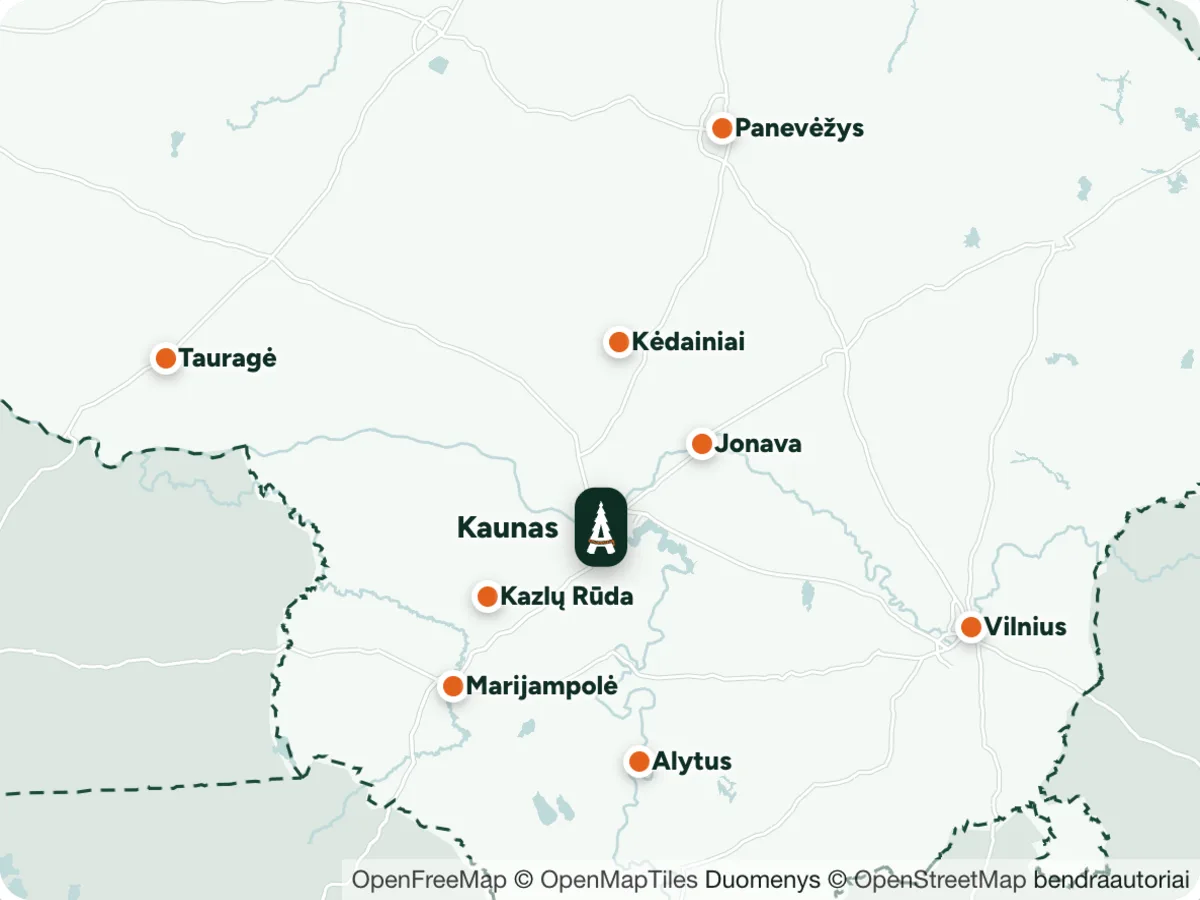
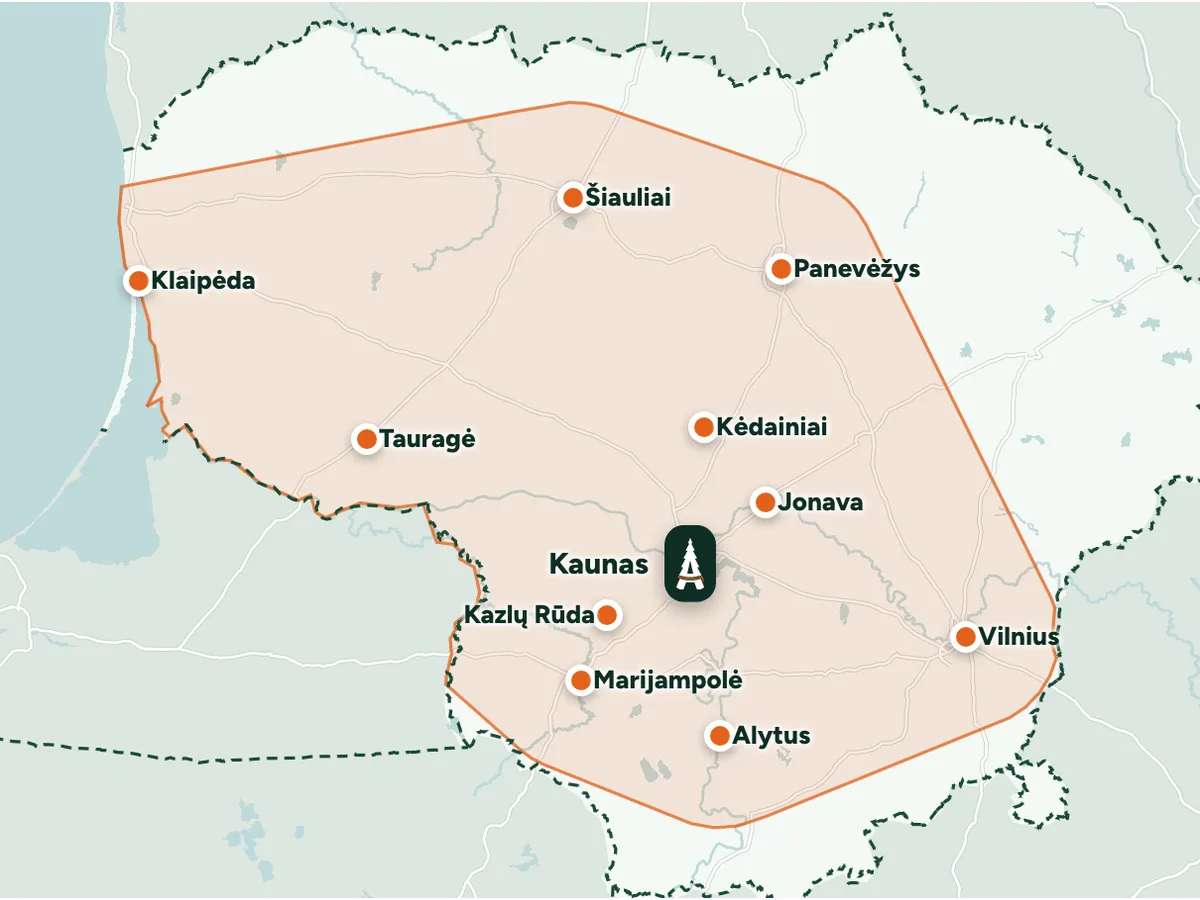
feat(v5): service area back on the map, Klaipėda and Šiauliai as served towns

diff --git a/src/scripts/area-map.js b/src/scripts/area-map.js
@@ -34,21 +34,24 @@ export async function mount(box) {
   let map;
   try {
     map = new maplibregl.Map({
-      container: host, style: style(), bounds: [[21.9, 54.1], [25.9, 56.0]], fitBoundsOptions: { padding: 0 },
+      container: host, style: style(), bounds: [[20.75, 53.95], [26.15, 56.45]], fitBoundsOptions: { padding: 0 },
       attributionControl: false, cooperativeGestures: true, dragRotate: false, pitchWithRotate: false, maxZoom: 11, minZoom: 5, renderWorldCopies: false,
       locale: { 'CooperativeGesturesHandler.WindowsHelpText': 'Laikykite Ctrl ir sukite pelės ratuką, kad keistumėte mastelį', 'CooperativeGesturesHandler.MacHelpText': 'Laikykite Cmd ir sukite pelės ratuką, kad keistumėte mastelį', 'CooperativeGesturesHandler.MobileHelpText': 'Žemėlapį stumkite dviem pirštais', 'NavigationControl.ZoomIn': 'Priartinti', 'NavigationControl.ZoomOut': 'Atitolinti' },
     });
   } catch (e) { box.classList.add('map--static'); return; }
   map.addControl(new maplibregl.NavigationControl({ showCompass: false }), 'top-right');
   map.on('load', async () => {
-    const lt = await fetch(data.lt).then((r) => r.json());
+    const [lt, zone] = await Promise.all([fetch(data.lt).then((r) => r.json()), fetch(data.zone).then((r) => r.json())]);
     map.addSource('lt', { type: 'geojson', data: lt });
+    map.addSource('zone', { type: 'geojson', data: zone });
     map.addLayer({ id: 'lt-fill', type: 'fill', source: 'lt', paint: { 'fill-color': C.land } }, 'wood');
+    map.addLayer({ id: 'zone-fill', type: 'fill', source: 'zone', paint: { 'fill-color': C.orange, 'fill-opacity': .13 } }, 'border');
+    map.addLayer({ id: 'zone-line', type: 'line', source: 'zone', paint: { 'line-color': C.orange, 'line-width': 1.6, 'line-opacity': .75 } }, 'border');
     const reduce = window.matchMedia('(prefers-reduced-motion: reduce)').matches;
     let i = 0;
     for (const t of data.towns) {
       const base = t.base;
-      const m = el('a', `mpin${base ? ' mpin--base' : ''}`, `<span class="mpin__in">${base ? `<img src="${data.mark}" alt="" width="20" height="34">` : ''}<span class="mpin__dot"></span><span class="mpin__l">${t.name}</span></span>`);
+      const m = el('a', `mpin${base ? ' mpin--base' : ''}${t.left ? ' mpin--left' : ''}`, `<span class="mpin__in">${base ? `<img src="${data.mark}" alt="" width="20" height="34">` : ''}<span class="mpin__dot"></span><span class="mpin__l">${t.name}</span></span>`);
       m.href = t.href; m.setAttribute('aria-label', base ? `${t.name}, bazė` : `Medžių pjovimas: ${t.name}`);
       if (!reduce) m.firstChild.style.animationDelay = `${(i++) * 60}ms`;
       new maplibregl.Marker({ element: m, anchor: 'center' }).setLngLat(t.ll).addTo(map);

diff --git a/src/data/vietoves.js b/src/data/vietoves.js
@@ -53,11 +53,23 @@ const turinys = {
     tekstas:
       'Tauragė ir aplinkiniai rajonai patenka į mūsų aptarnavimo zoną, todėl atvykstame ir į Tauragę, ir į aplinkines sodybas bei kaimus. Dažniausiai čia šaliname senus, pavojingai pasvirusius ar audros pažeistus medžius prie namų, ūkinių pastatų ir elektros linijų, genime lają, frezuojame kelmus. Aukštus medžius pjauname dalimis — su nuosavu autobokšteliu iki 20 m arba alpinistine įranga. Kad kelionė apsimokėtų, išvykimo datą suderiname iš anksto, o kelių kaimynų darbus galime atlikti per vieną atvykimą.',
   },
+  // Pridėta kliento patvirtinimu (2026-11): Mantas sako, kad Šiauliai ir Klaipėda nėra per toli.
+  'medziu-pjovimas-siauliai': {
+    intro: 'Šiauliuose ir Šiaulių krašte — pavojingų medžių šalinimas, genėjimas ir kelmai.',
+    tekstas:
+      'Į Šiaulius važiuojame iš bazės Kaune, todėl atvykimo datą suderiname iš anksto. Šalinami pavojingi medžiai prie namų, tvorų ir ūkinių pastatų, genima laja, frezuojami kelmai. Aukštus medžius pjauname dalimis: su nuosavu autobokšteliu iki 20 m arba alpinistine įranga, kai technika neprivažiuoja. Šakas ir medieną sukrauname tvarkingomis krūvomis, o kaimynų darbus galime atlikti per tą patį atvykimą.',
+  },
+  'medziu-pjovimas-klaipeda': {
+    intro: 'Klaipėdoje ir pajūrio krašte — darbai suderinus datą iš anksto.',
+    tekstas:
+      'Klaipėda yra toliausiai nuo mūsų bazės Kaune, todėl išvykimą planuojame iš anksto ir stengiamės sujungti kelis darbus į vieną atvykimą. Pjauname pavojingus medžius prie pastatų ir sklypų ribų, genime lajas, šaliname kelmus. Kur privažiuoja technika, dirbame nuosavu autobokšteliu iki 20 m, o ankštose vietose medį nuleidžiame dalimis virvėmis. Atsiųskite darbo vietos nuotraukų, ir pasakysime, ką reikės daryti.',
+  },
 };
 
 const vietininkas = {
   Kaunas: 'Kaune', Vilnius: 'Vilniuje', Panevėžys: 'Panevėžyje', Marijampolė: 'Marijampolėje', Alytus: 'Alytuje',
   Jonava: 'Jonavoje', Kėdainiai: 'Kėdainiuose', 'Kazlų Rūda': 'Kazlų Rūdoje', Tauragė: 'Tauragėje',
+  Šiauliai: 'Šiauliuose', Klaipėda: 'Klaipėdoje',
 };
 
 export const vietoves = site.vietoves.map((v) => ({ ...v, kur: vietininkas[v.miestas] || v.miestas, ...(turinys[v.slug] || {}) }));

diff --git a/src/data/site.js b/src/data/site.js
@@ -44,6 +44,8 @@ export const site = {
     { miestas: 'Kėdainiai',    slug: 'medziu-pjovimas-kedainiai' },
     { miestas: 'Kazlų Rūda',   slug: 'medziu-pjovimas-kazlu-ruda' },
     { miestas: 'Tauragė',      slug: 'medziu-pjovimas-taurage' },
+    { miestas: 'Šiauliai',     slug: 'medziu-pjovimas-siauliai' },
+    { miestas: 'Klaipėda',     slug: 'medziu-pjovimas-klaipeda' },
   ],
 
   // --- SEO ---
